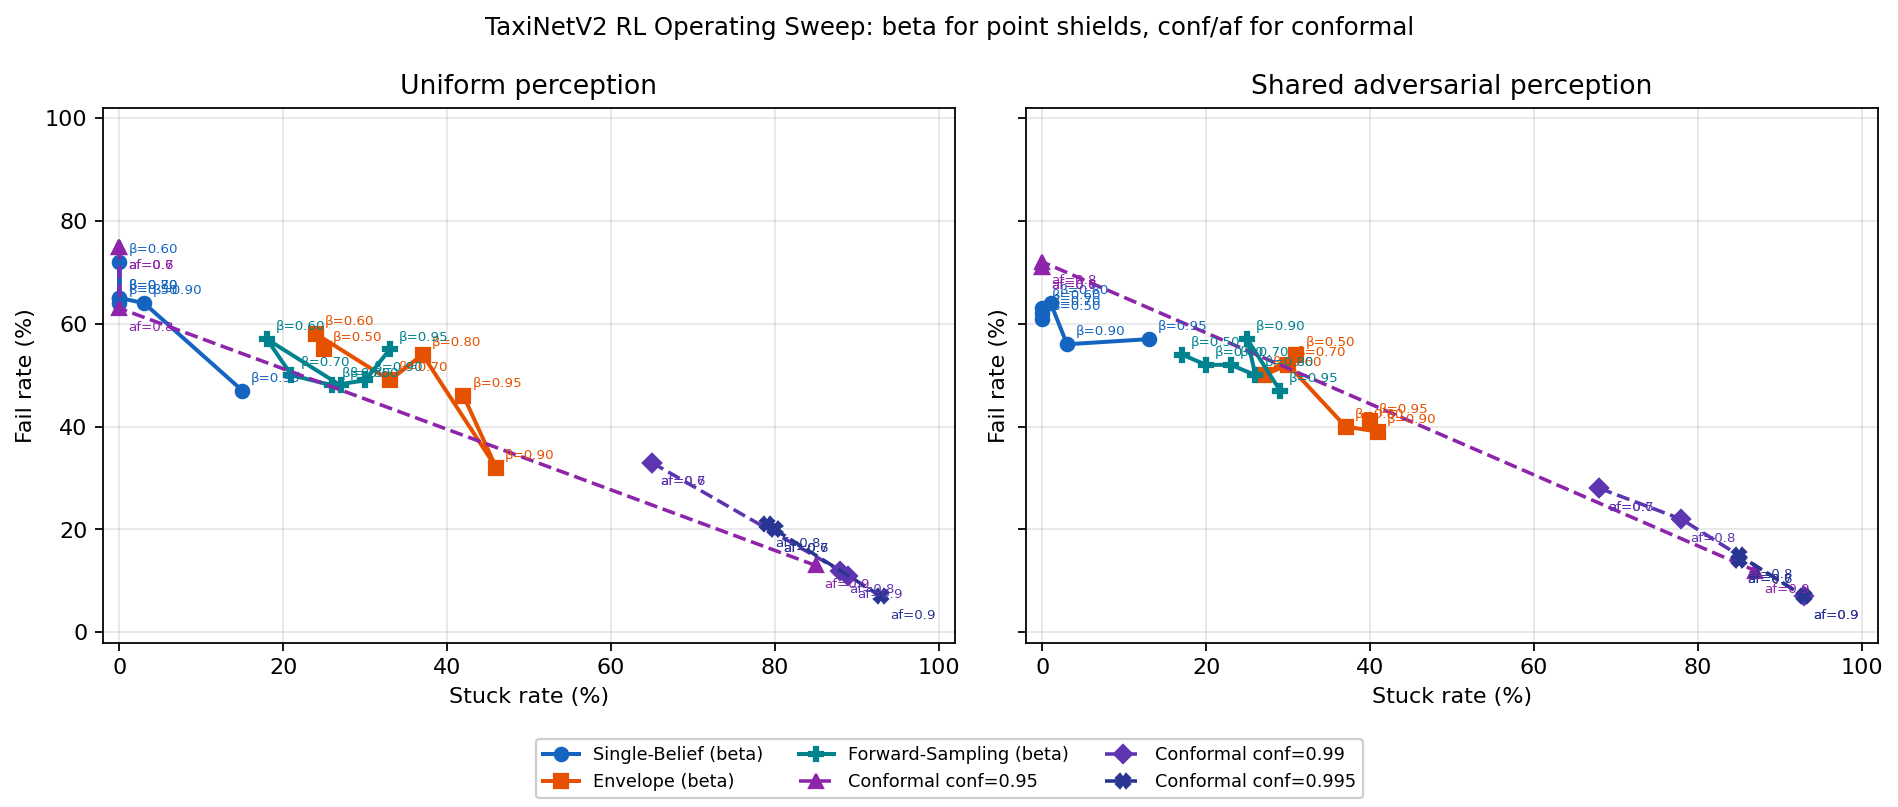
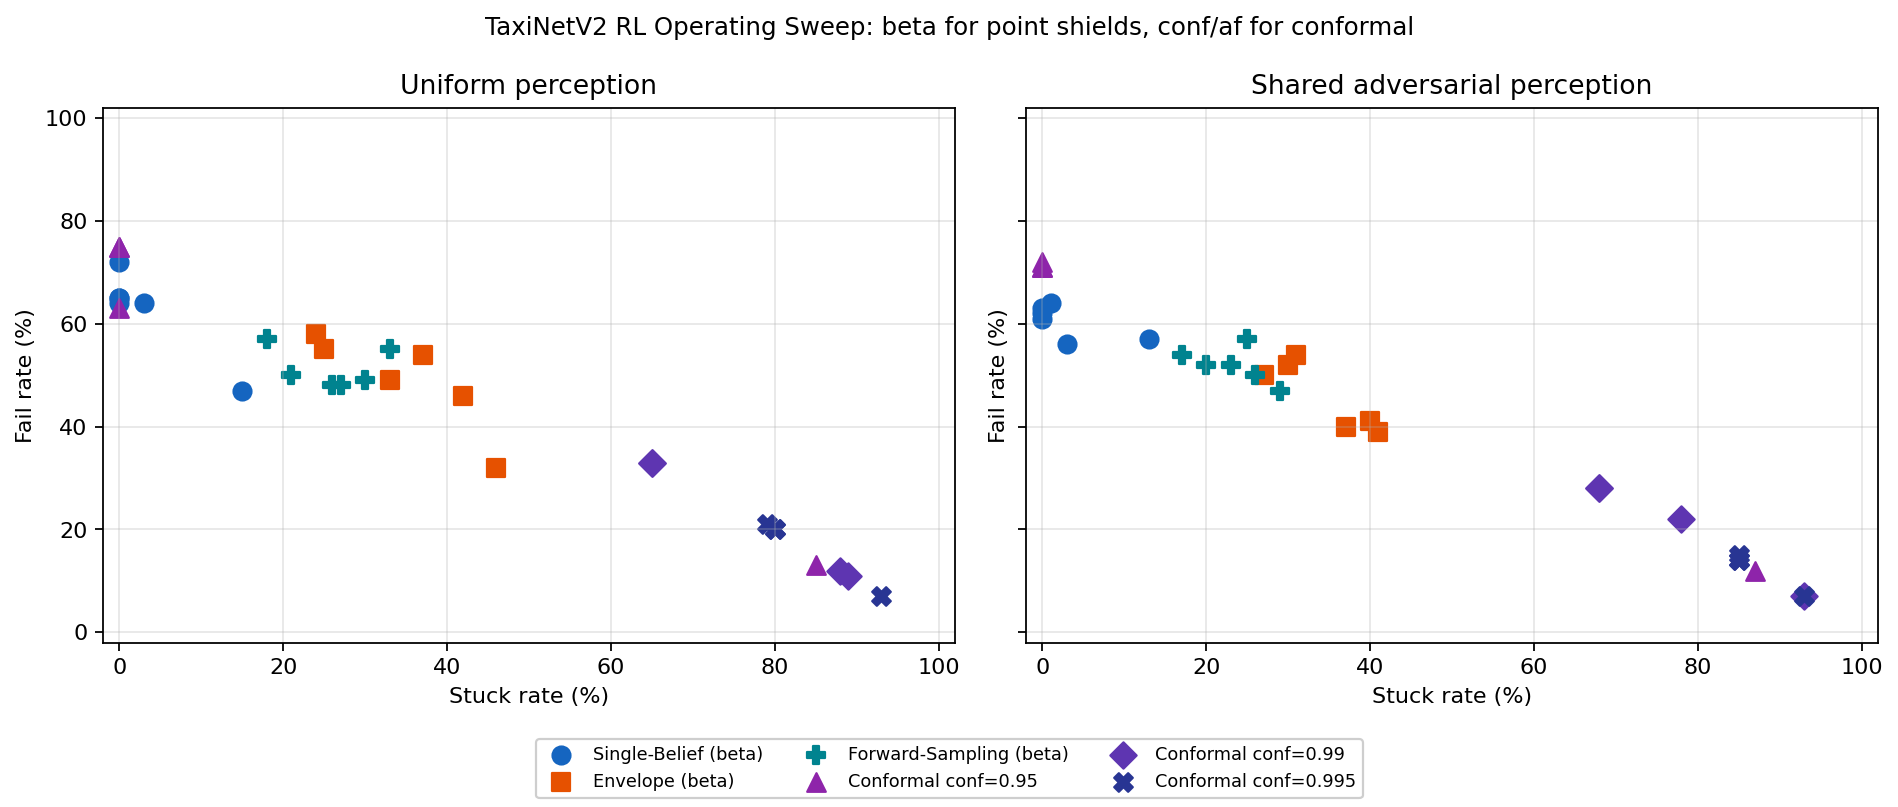
Refine TaxiNetV2 operating sweep plots

diff --git a/ipomdp_shielding_/ipomdp_shielding/experiments/plot_taxinet_v2_operating_pareto_sweep.py b/ipomdp_shielding_/ipomdp_shielding/experiments/plot_taxinet_v2_operating_pareto_sweep.py
@@ -11,6 +11,8 @@ import matplotlib
 
 matplotlib.use("Agg")
 import matplotlib.pyplot as plt
+import matplotlib.patches as mpatches
+import numpy as np
 
 
 POINT_METHODS = ("single_belief", "envelope", "forward_sampling")
@@ -38,6 +40,20 @@ CONF_MARKERS = {
     "0.95": "^",
     "0.99": "D",
     "0.995": "X",
+}
+CONFORMAL_COLOR = "#5E35B1"
+BEST_BAR_ORDER = ("single_belief", "envelope", "forward_sampling", "conformal")
+BEST_BAR_LABELS = {
+    "single_belief": "Single-Belief",
+    "envelope": "Envelope",
+    "forward_sampling": "Forward-Sampling",
+    "conformal": "Conformal",
+}
+BEST_BAR_COLORS = {
+    "single_belief": POINT_COLORS["single_belief"],
+    "envelope": POINT_COLORS["envelope"],
+    "forward_sampling": POINT_COLORS["forward_sampling"],
+    "conformal": CONFORMAL_COLOR,
 }
 
 
@@ -90,45 +106,26 @@ def make_pareto_figure(results: dict, out_path: Path) -> Path:
             curve = _curve(results, perception, method)
             xs = [metrics["stuck_rate"] * 100 for _, metrics in curve]
             ys = [metrics["fail_rate"] * 100 for _, metrics in curve]
-            ax.plot(
+            ax.scatter(
                 xs,
                 ys,
                 color=POINT_COLORS[method],
                 marker=POINT_MARKERS[method],
-                linewidth=1.8,
+                s=65,
                 label=f"{POINT_LABELS[method]} (beta)",
             )
-            for beta, metrics in curve:
-                ax.annotate(
-                    f"β={beta:.2f}",
-                    (metrics["stuck_rate"] * 100, metrics["fail_rate"] * 100),
-                    textcoords="offset points",
-                    xytext=(4, 4),
-                    fontsize=6,
-                    color=POINT_COLORS[method],
-                )
         for confidence_level in results["metadata"]["confidence_levels"]:
             curve = _conf_curve(results, perception, confidence_level)
             xs = [metrics["stuck_rate"] * 100 for _, metrics in curve]
             ys = [metrics["fail_rate"] * 100 for _, metrics in curve]
-            ax.plot(
+            ax.scatter(
                 xs,
                 ys,
                 color=CONF_COLORS[confidence_level],
                 marker=CONF_MARKERS[confidence_level],
-                linewidth=1.6,
-                linestyle="--",
+                s=70,
                 label=f"Conformal conf={confidence_level}",
             )
-            for action_filter, metrics in curve:
-                ax.annotate(
-                    f"af={action_filter:.1f}",
-                    (metrics["stuck_rate"] * 100, metrics["fail_rate"] * 100),
-                    textcoords="offset points",
-                    xytext=(4, -10),
-                    fontsize=6,
-                    color=CONF_COLORS[confidence_level],
-                )
         ax.set_title("Uniform perception" if perception == "uniform" else "Shared adversarial perception")
         ax.set_xlabel("Stuck rate (%)")
         ax.set_ylabel("Fail rate (%)")
@@ -139,6 +136,88 @@ def make_pareto_figure(results: dict, out_path: Path) -> Path:
     fig.legend(handles, labels, loc="lower center", ncol=3, fontsize=8, framealpha=0.95)
     fig.suptitle("TaxiNetV2 RL Operating Sweep: beta for point shields, conf/af for conformal", fontsize=11)
     fig.tight_layout(rect=(0, 0.08, 1, 1))
+    fig.savefig(out_path, dpi=160, bbox_inches="tight")
+    plt.close(fig)
+    return out_path
+
+
+def _best_score(metrics: dict) -> Tuple[float, float, float]:
+    return (-metrics["safe_rate"], metrics["fail_rate"], metrics["stuck_rate"])
+
+
+def _best_point_method(results: dict, perception: str, method: str) -> Tuple[str, dict]:
+    rows = [
+        (f"beta={beta:.2f}", metrics)
+        for beta, metrics in _curve(results, perception, method)
+    ]
+    return min(rows, key=lambda item: _best_score(item[1]))
+
+
+def _best_conformal(results: dict, perception: str) -> Tuple[str, dict]:
+    rows = []
+    for confidence_level in results["metadata"]["confidence_levels"]:
+        for action_filter, metrics in _conf_curve(results, perception, confidence_level):
+            rows.append((f"conf={confidence_level}, af={action_filter:.1f}", metrics))
+    return min(rows, key=lambda item: _best_score(item[1]))
+
+
+def _best_bar_rows(results: dict, perception: str) -> Dict[str, dict]:
+    best_rows: Dict[str, dict] = {}
+    for method in POINT_METHODS:
+        setting, metrics = _best_point_method(results, perception, method)
+        best_rows[method] = {"setting": setting, **metrics}
+    setting, metrics = _best_conformal(results, perception)
+    best_rows["conformal"] = {"setting": setting, **metrics}
+    return best_rows
+
+
+def _draw_best_bars(ax, best_rows: Dict[str, dict], title: str) -> None:
+    methods = [method for method in BEST_BAR_ORDER if method in best_rows]
+    fails = [best_rows[method]["fail_rate"] * 100 for method in methods]
+    stucks = [best_rows[method]["stuck_rate"] * 100 for method in methods]
+    safes = [best_rows[method]["safe_rate"] * 100 for method in methods]
+    colors = [BEST_BAR_COLORS[method] for method in methods]
+    x = np.arange(len(methods))
+    width = 0.58
+
+    ax.bar(x, fails, width, color=colors, alpha=0.9, zorder=3)
+    ax.bar(
+        x,
+        stucks,
+        width,
+        bottom=fails,
+        color=colors,
+        alpha=0.34,
+        hatch="///",
+        edgecolor="white",
+        zorder=3,
+    )
+    ax.bar(x, safes, width, bottom=np.array(fails) + np.array(stucks), color=colors, alpha=0.14, zorder=3)
+
+    ax.set_xticks(x)
+    ax.set_xticklabels([BEST_BAR_LABELS[method] for method in methods], fontsize=9)
+    ax.set_ylabel("Rate (%)")
+    ax.set_ylim(0, 100)
+    ax.set_title(title, fontsize=10)
+    ax.grid(axis="y", alpha=0.3, zorder=0)
+
+
+def make_best_bar_figure(results: dict, out_path: Path) -> Path:
+    out_path.parent.mkdir(parents=True, exist_ok=True)
+    fig, axes = plt.subplots(1, 2, figsize=(10, 4.6), sharey=True)
+    fig.suptitle("Best Swept Operating Point per Method", fontsize=11)
+
+    for ax, perception in zip(axes, ("uniform", "adversarial_opt")):
+        rows = _best_bar_rows(results, perception)
+        title = "Uniform perception" if perception == "uniform" else "Shared adversarial perception"
+        _draw_best_bars(ax, rows, title)
+
+    fail_patch = mpatches.Patch(facecolor="gray", alpha=0.9, label="Fail")
+    stuck_patch = mpatches.Patch(facecolor="gray", alpha=0.34, hatch="///", edgecolor="white", label="Stuck")
+    safe_patch = mpatches.Patch(facecolor="gray", alpha=0.14, label="Safe")
+    axes[1].legend(handles=[fail_patch, stuck_patch, safe_patch], fontsize=8, loc="upper right")
+
+    fig.tight_layout(rect=(0, 0, 1, 0.96))
     fig.savefig(out_path, dpi=160, bbox_inches="tight")
     plt.close(fig)
     return out_path
@@ -170,13 +249,15 @@ def _table_lines(results: dict, perception: str) -> List[str]:
     return lines
 
 
-def write_summary(results: dict, figure_path: Path, summary_path: Path) -> None:
+def write_summary(results: dict, figure_path: Path, bar_figure_path: Path, summary_path: Path) -> None:
     summary_path.parent.mkdir(parents=True, exist_ok=True)
     meta = results["metadata"]
     uniform_best_fail = _best_entry(_iter_perception_rows(results, "uniform"), "fail_rate")
     adv_best_fail = _best_entry(_iter_perception_rows(results, "adversarial_opt"), "fail_rate")
     uniform_best_stuck = _best_entry(_iter_perception_rows(results, "uniform"), "stuck_rate")
     adv_best_stuck = _best_entry(_iter_perception_rows(results, "adversarial_opt"), "stuck_rate")
+    uniform_best_by_method = _best_bar_rows(results, "uniform")
+    adv_best_by_method = _best_bar_rows(results, "adversarial_opt")
     lines: List[str] = [
         "# TaxiNetV2 Operating Pareto Sweep",
         "",
@@ -198,6 +279,33 @@ def write_summary(results: dict, figure_path: Path, summary_path: Path) -> None:
         f"- Adversarial lowest stuck: `{adv_best_stuck[0]}` at `{adv_best_stuck[1]['stuck_rate']:.1%}` stuck and `{adv_best_stuck[1]['fail_rate']:.1%}` fail.",
         "- Only the conformal shield moves with `conf` and `af`; `single_belief`, `envelope`, and `forward_sampling` move only with `beta`.",
         "- The RL controller and adversarial realization are held fixed across the whole sweep, so the plotted differences are shield-operating-point differences rather than controller/retraining differences.",
+        "- In the stacked-bar figure, each method keeps only its highest-safe operating point, tie-broken by lower fail and then lower stuck.",
+        "",
+        "## Best Point per Method",
+        "",
+        "### Uniform perception",
+        "",
+        "| Method | Setting | Fail | Stuck | Safe |",
+        "|---|---|---:|---:|---:|",
+        *[
+            f"| {BEST_BAR_LABELS[method]} | `{uniform_best_by_method[method]['setting']}` | "
+            f"{uniform_best_by_method[method]['fail_rate']:.1%} | "
+            f"{uniform_best_by_method[method]['stuck_rate']:.1%} | "
+            f"{uniform_best_by_method[method]['safe_rate']:.1%} |"
+            for method in BEST_BAR_ORDER
+        ],
+        "",
+        "### Shared adversarial perception",
+        "",
+        "| Method | Setting | Fail | Stuck | Safe |",
+        "|---|---|---:|---:|---:|",
+        *[
+            f"| {BEST_BAR_LABELS[method]} | `{adv_best_by_method[method]['setting']}` | "
+            f"{adv_best_by_method[method]['fail_rate']:.1%} | "
+            f"{adv_best_by_method[method]['stuck_rate']:.1%} | "
+            f"{adv_best_by_method[method]['safe_rate']:.1%} |"
+            for method in BEST_BAR_ORDER
+        ],
         "",
         "## Uniform RL Results",
         "",
@@ -210,6 +318,7 @@ def write_summary(results: dict, figure_path: Path, summary_path: Path) -> None:
         "## Figure",
         "",
         f"- Pareto scatter: ![]({figure_path.relative_to(summary_path.parent)})",
+        f"- Best-point bars: ![]({bar_figure_path.relative_to(summary_path.parent)})",
     ]
     summary_path.write_text("\n".join(lines))
 
@@ -218,8 +327,10 @@ def main() -> None:
     args = parse_args()
     results = _load(args.results_json)
     figure_path = make_pareto_figure(results, args.figures_dir / "pareto_scatter.png")
-    write_summary(results, figure_path, args.summary_md)
+    bar_figure_path = make_best_bar_figure(results, args.figures_dir / "best_method_bars.png")
+    write_summary(results, figure_path, bar_figure_path, args.summary_md)
     print(f"Wrote figure to {figure_path}")
+    print(f"Wrote figure to {bar_figure_path}")
     print(f"Wrote summary to {args.summary_md}")
 
 

diff --git a/results/taxinet_v2/operating_pareto_sweep/evaluation_summary.md b/results/taxinet_v2/operating_pareto_sweep/evaluation_summary.md
@@ -18,6 +18,27 @@
 - Adversarial lowest stuck: `Single-Belief beta=0.50` at `0.0%` stuck and `61.0%` fail.
 - Only the conformal shield moves with `conf` and `af`; `single_belief`, `envelope`, and `forward_sampling` move only with `beta`.
 - The RL controller and adversarial realization are held fixed across the whole sweep, so the plotted differences are shield-operating-point differences rather than controller/retraining differences.
+- In the stacked-bar figure, each method keeps only its highest-safe operating point, tie-broken by lower fail and then lower stuck.
+
+## Best Point per Method
+
+### Uniform perception
+
+| Method | Setting | Fail | Stuck | Safe |
+|---|---|---:|---:|---:|
+| Single-Belief | `beta=0.95` | 47.0% | 15.0% | 38.0% |
+| Envelope | `beta=0.90` | 32.0% | 46.0% | 22.0% |
+| Forward-Sampling | `beta=0.70` | 50.0% | 21.0% | 29.0% |
+| Conformal | `conf=0.95, af=0.8` | 63.0% | 0.0% | 37.0% |
+
+### Shared adversarial perception
+
+| Method | Setting | Fail | Stuck | Safe |
+|---|---|---:|---:|---:|
+| Single-Belief | `beta=0.90` | 56.0% | 3.0% | 41.0% |
+| Envelope | `beta=0.80` | 40.0% | 37.0% | 23.0% |
+| Forward-Sampling | `beta=0.50` | 54.0% | 17.0% | 29.0% |
+| Conformal | `conf=0.95, af=0.6` | 71.0% | 0.0% | 29.0% |
 
 ## Uniform RL Results
 
@@ -92,3 +113,4 @@
 ## Figure
 
 - Pareto scatter: ![](figures/pareto_scatter.png)
+- Best-point bars: ![](figures/best_method_bars.png)

diff --git a/results/taxinet_v2/operating_pareto_sweep/runs/v2026-05-13-beta-af-operating-sweep/evaluation_summary.md b/results/taxinet_v2/operating_pareto_sweep/runs/v2026-05-13-beta-af-operating-sweep/evaluation_summary.md
@@ -18,6 +18,27 @@
 - Adversarial lowest stuck: `Single-Belief beta=0.50` at `0.0%` stuck and `61.0%` fail.
 - Only the conformal shield moves with `conf` and `af`; `single_belief`, `envelope`, and `forward_sampling` move only with `beta`.
 - The RL controller and adversarial realization are held fixed across the whole sweep, so the plotted differences are shield-operating-point differences rather than controller/retraining differences.
+- In the stacked-bar figure, each method keeps only its highest-safe operating point, tie-broken by lower fail and then lower stuck.
+
+## Best Point per Method
+
+### Uniform perception
+
+| Method | Setting | Fail | Stuck | Safe |
+|---|---|---:|---:|---:|
+| Single-Belief | `beta=0.95` | 47.0% | 15.0% | 38.0% |
+| Envelope | `beta=0.90` | 32.0% | 46.0% | 22.0% |
+| Forward-Sampling | `beta=0.70` | 50.0% | 21.0% | 29.0% |
+| Conformal | `conf=0.95, af=0.8` | 63.0% | 0.0% | 37.0% |
+
+### Shared adversarial perception
+
+| Method | Setting | Fail | Stuck | Safe |
+|---|---|---:|---:|---:|
+| Single-Belief | `beta=0.90` | 56.0% | 3.0% | 41.0% |
+| Envelope | `beta=0.80` | 40.0% | 37.0% | 23.0% |
+| Forward-Sampling | `beta=0.50` | 54.0% | 17.0% | 29.0% |
+| Conformal | `conf=0.95, af=0.6` | 71.0% | 0.0% | 29.0% |
 
 ## Uniform RL Results
 
@@ -92,3 +113,4 @@
 ## Figure
 
 - Pareto scatter: ![](figures/pareto_scatter.png)
+- Best-point bars: ![](figures/best_method_bars.png)
